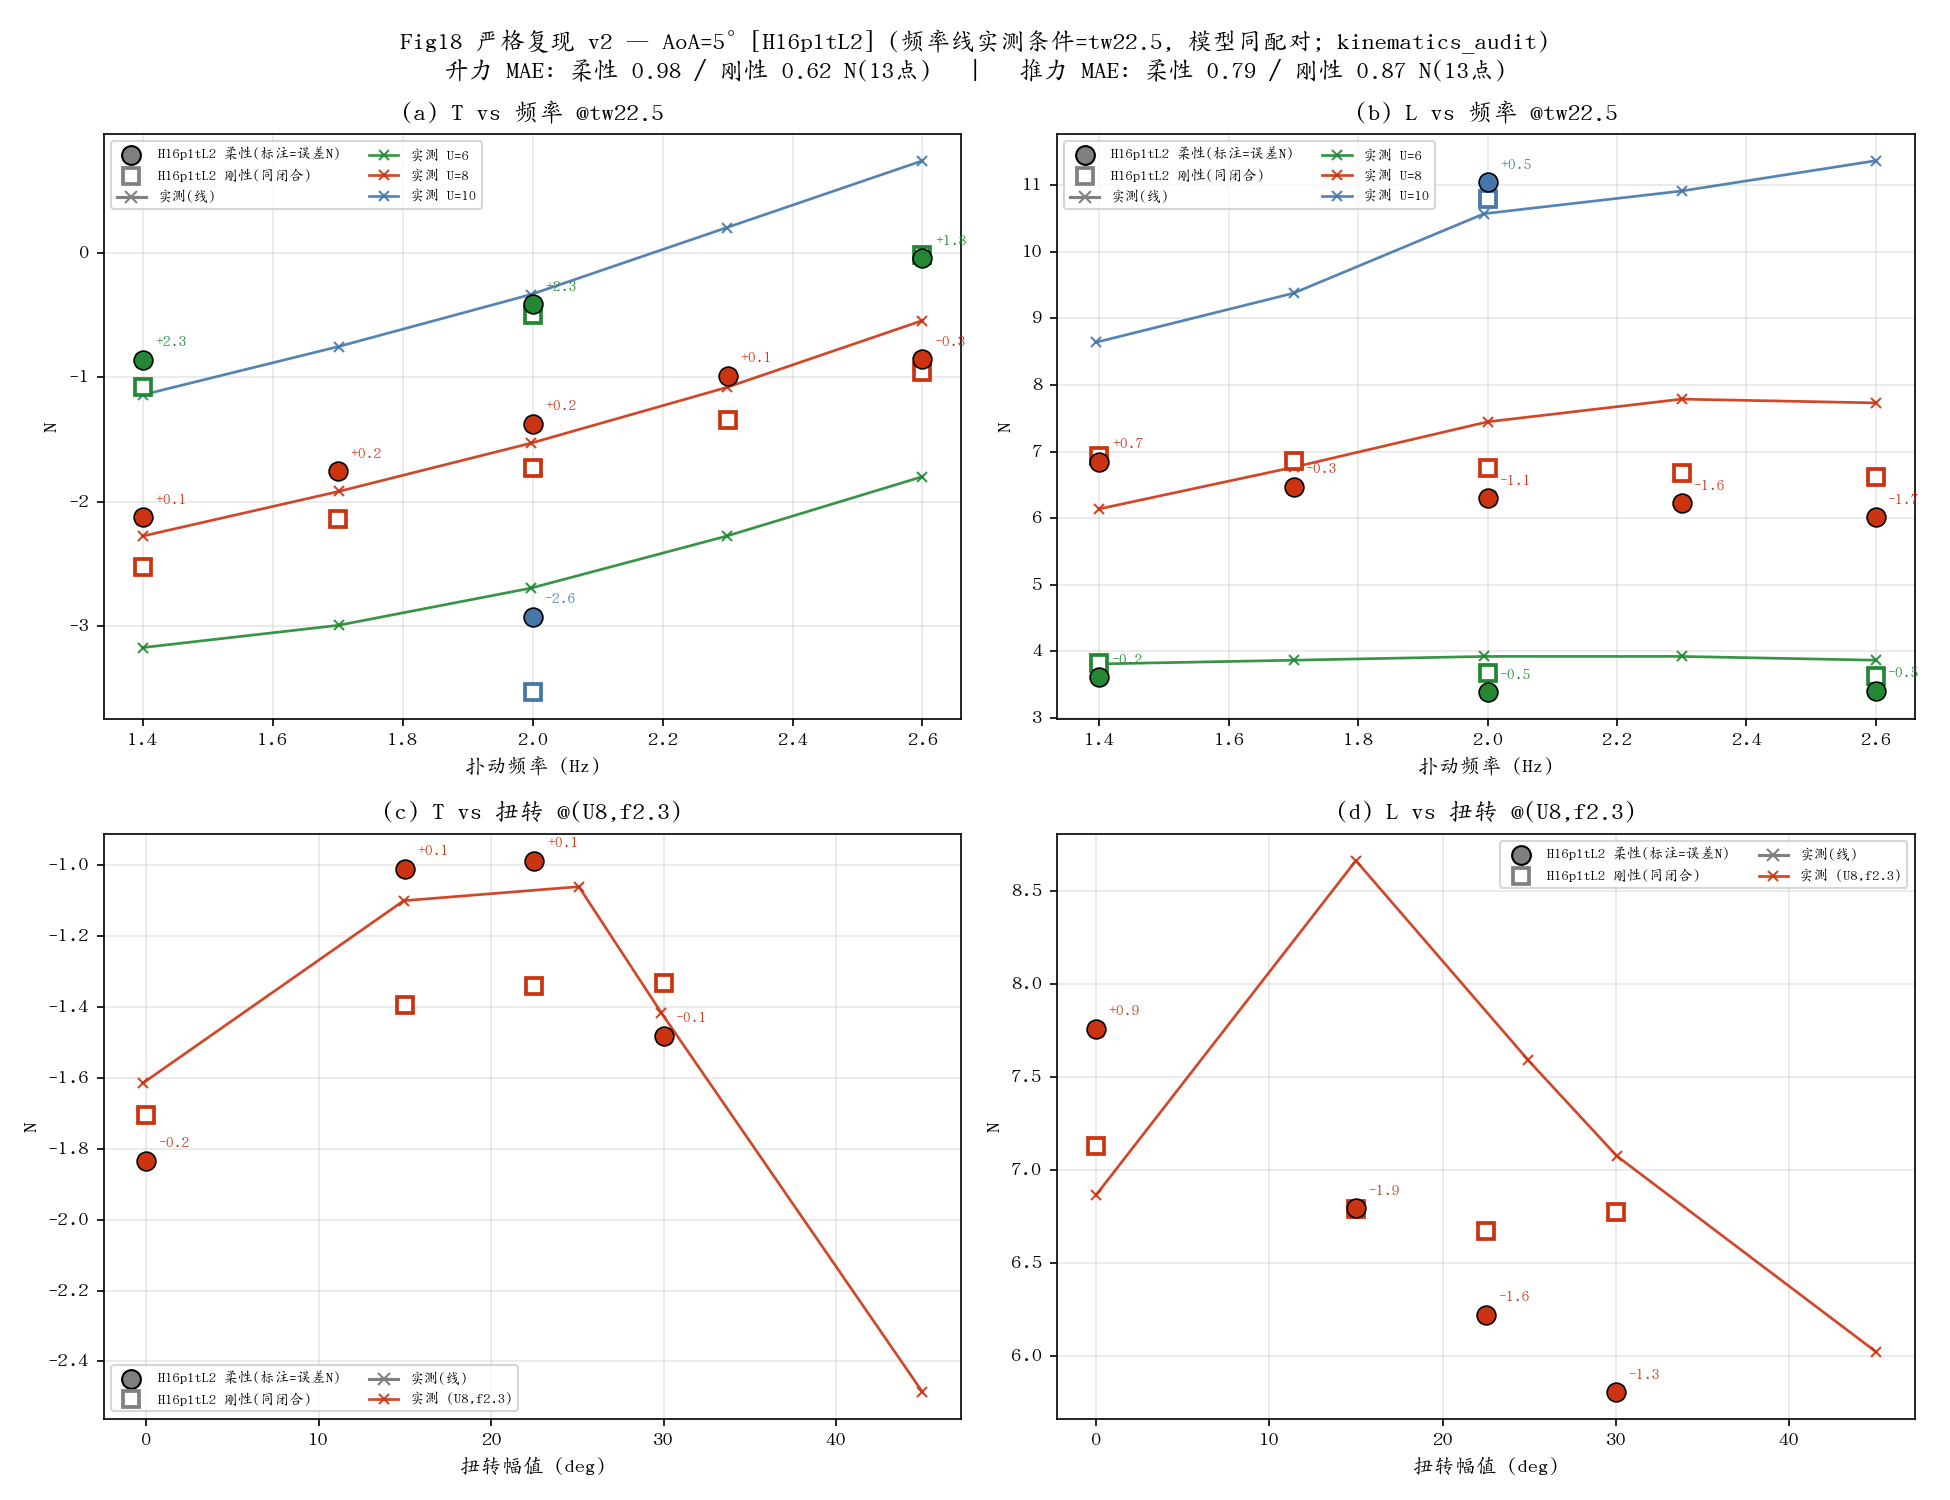
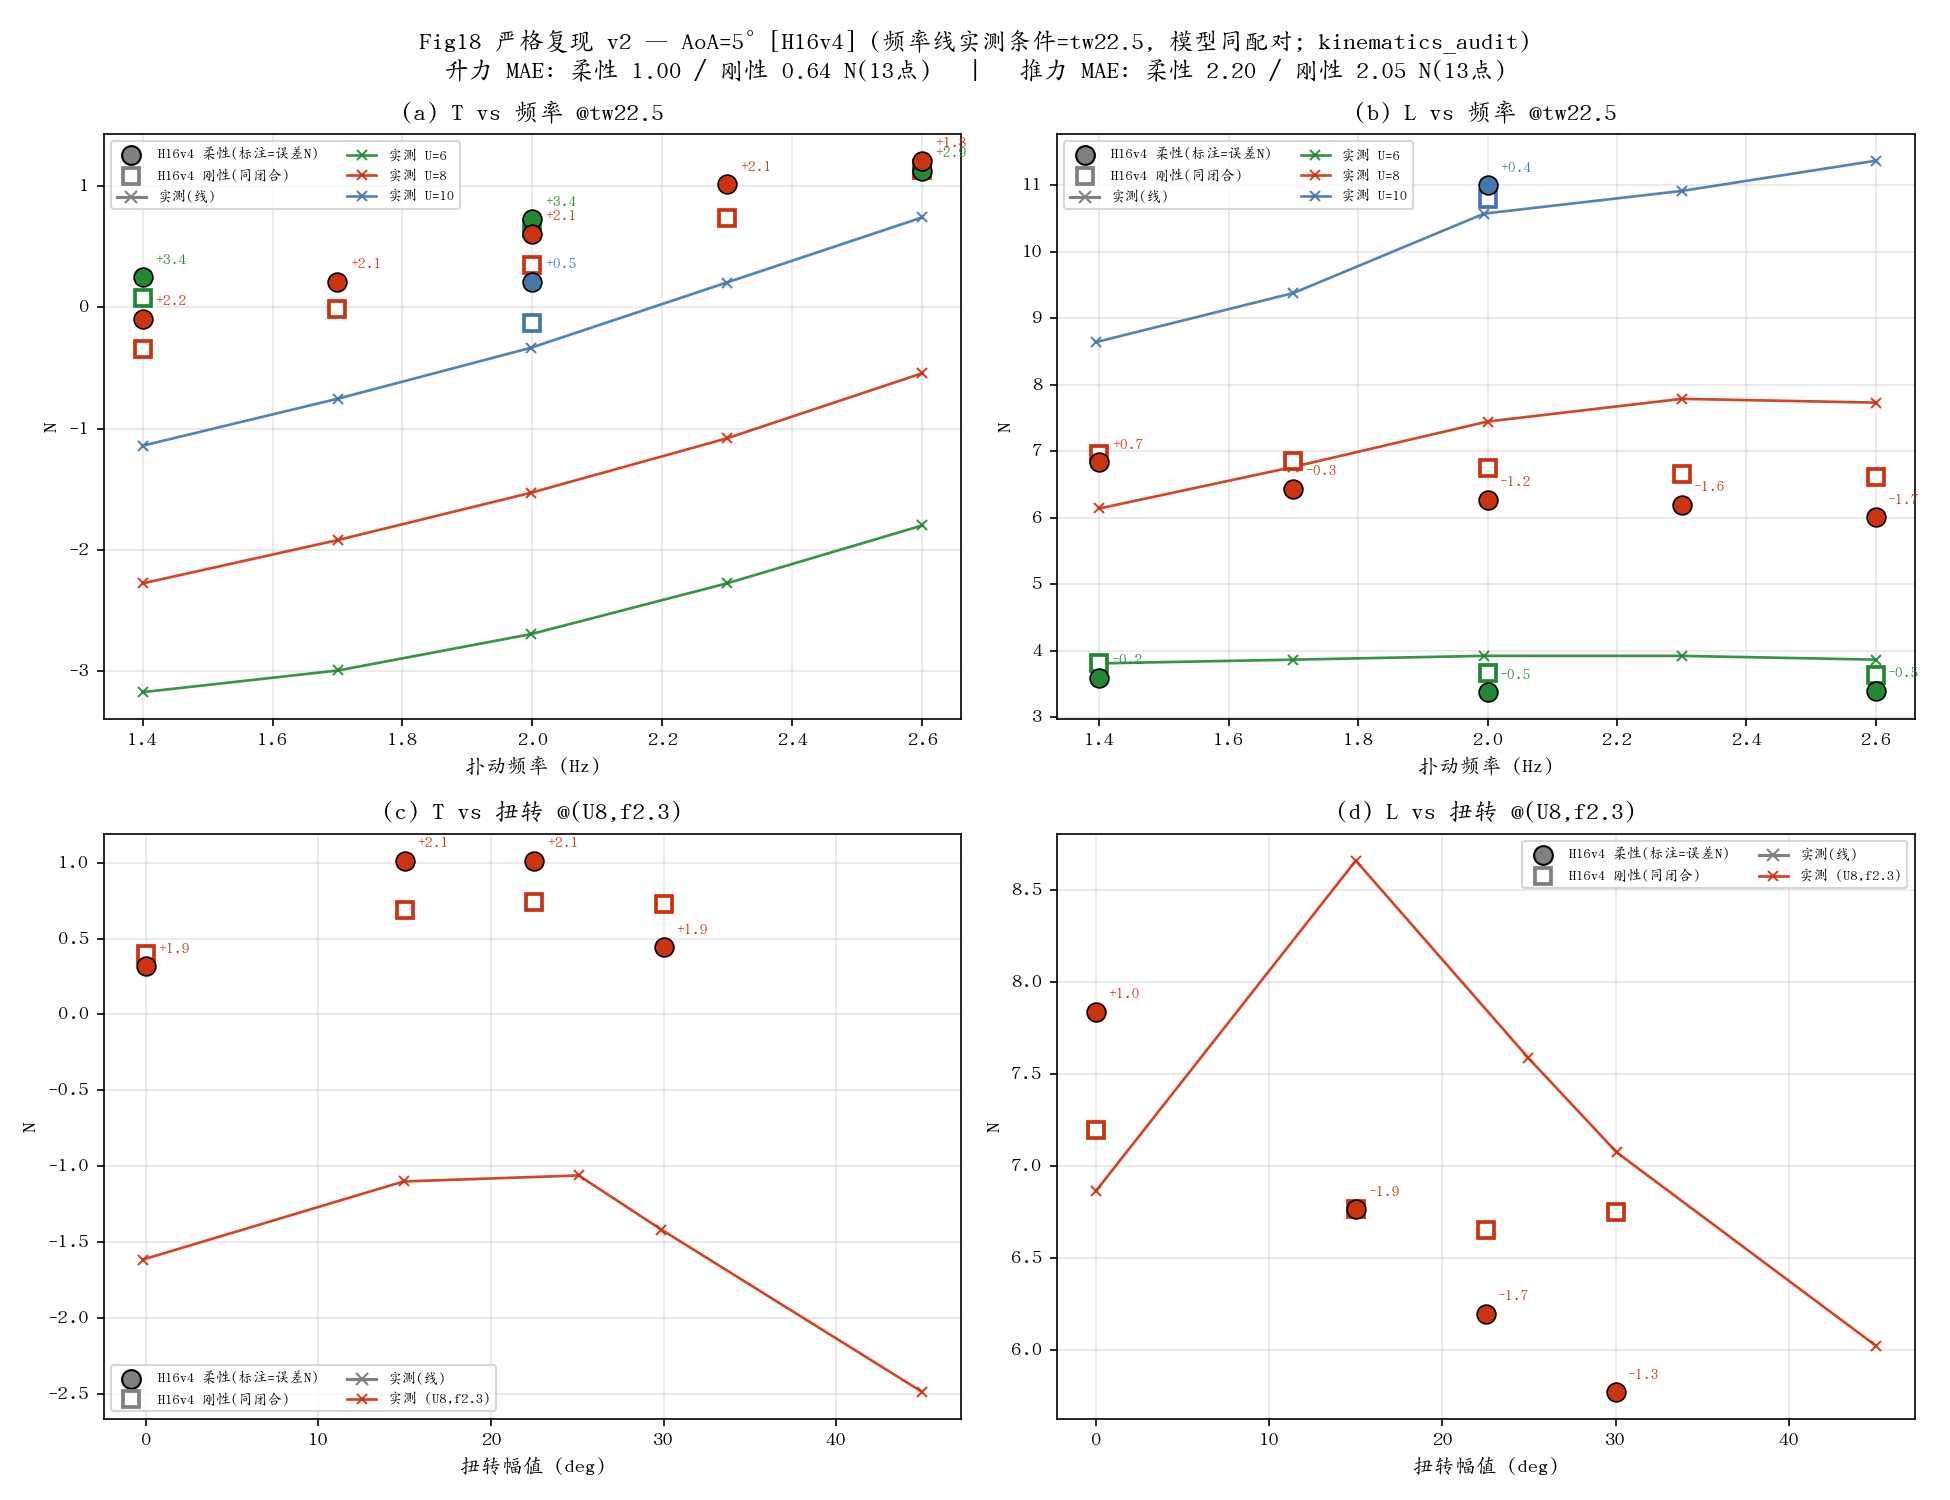
feat(v4-flex): flexible replay refresh on the v4 closure — strict figures updated; tw45 silent corruption filed to case D-aero

diff --git a/platform/p2_s6_fig_strict.py b/platform/p2_s6_fig_strict.py
@@ -27,7 +27,7 @@ rcParams["axes.unicode_minus"] = False
 _HERE = os.path.dirname(os.path.abspath(__file__))
 DOCS = os.path.join(_HERE, "docs")
 MEAS = json.load(open(os.path.join(DOCS, "repro_data.json")))
-CFG = "H16pltL2"    # v2 baseline: correct kinematics (flap ±22.5, tw label=peak-to-peak)
+CFG = "H16v4"    # v2 baseline: correct kinematics (flap ±22.5, tw label=peak-to-peak)
                     # + correct pairing (Fig18/19 freq lines measured at tw22.5, kinematics_audit.md)
 
 PTS = {}
